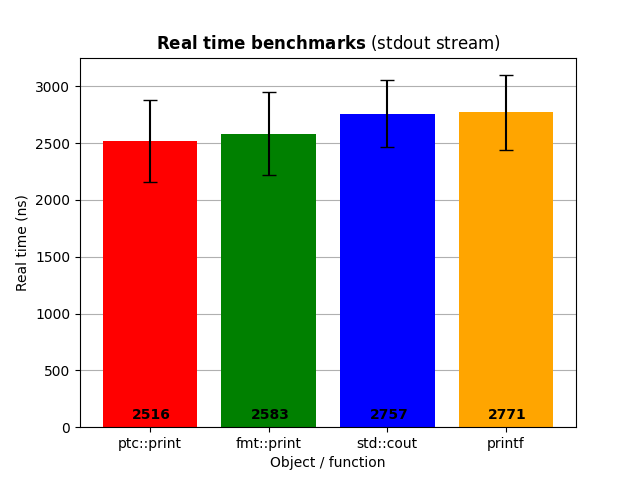
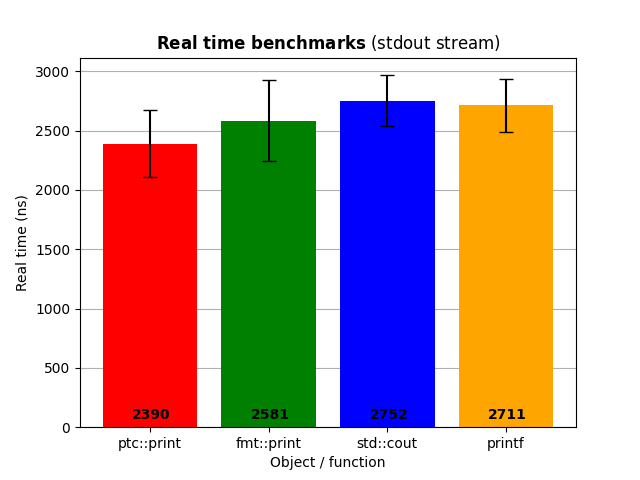
Added performance studies using performance options enabled.

diff --git a/include/ptc/print.hpp b/include/ptc/print.hpp
@@ -59,13 +59,6 @@ namespace ptc
       */
      Print(): end( "\n" ), sep( " " ), flush( false ) {}
 
-     // Destructor
-     /**
-      * @brief Destructor of the Print class.
-      * 
-      */
-     ~Print(){}
-
      //====================================================
      //     Public setters
      //====================================================
@@ -86,7 +79,6 @@ namespace ptc
      // setSep
      /**
       * @brief Setter used to set the value of the "sep" variable. Templated type is required in order to allow also char variables.
-      * 
       * 
       * @tparam T The type of the expression inserted to set the value of "sep" variable.
       * @param end_val The inserted expression used to set the value of "sep" variable.
@@ -169,12 +161,9 @@ namespace ptc
        else
         {
          #ifdef PTC_ENABLE_PERFORMANCE_IMPROVEMENTS
-           performance_options( 1 );
-           print_backend( std::cout, std::forward<T>( first ), std::forward<Args>( args )... );
-           performance_options( 0 );
-         #else 
-          print_backend( std::cout, std::forward<T>( first ), std::forward<Args>( args )... );
+          performance_options();
          #endif
+         print_backend( std::cout, std::forward<T>( first ), std::forward<Args>( args )... );
         }
       }
 
@@ -327,25 +316,12 @@ namespace ptc
 
      // performance_options
      /**
-      * @brief Function used to set on / off the performance improvements to the operator () overload.
-      * 
-      * @param flag A flag which identifies if the performance should be enabled or disabled.
+      * @brief Function used to set on the performance improvements to the operator () overload.
+      *
       */
-     void performance_options( const unsigned short& flag ) const
+     inline void performance_options() const
       {
-       switch( flag )
-        {
-         case( 1 ):
-          {
-           std::ios_base::sync_with_stdio( false );
-           break;
-          }
-         case( 0 ):
-          {
-           std::ios_base::sync_with_stdio( true );
-           break;
-          }
-        }
+       std::ios_base::sync_with_stdio( false );
       }
 
      //====================================================

diff --git a/studies/benchmarking/analysis.py b/studies/benchmarking/analysis.py
@@ -141,7 +141,7 @@ def plotter( data, time_type ):
     plt.bar( names.keys(), mean, yerr = std, color = colors, capsize = 5 )
 
     # Adding mean value inside each chart
-    for i in range( 0, 4, 1 ):
+    for i in range( counter ):
         ax.text( -0.15 + i , 70, round( mean[ i ] ), color = "black", fontweight = "bold" )
         
     # Plot settings
@@ -158,10 +158,16 @@ def plotter( data, time_type ):
     if args.save == "no":
         plt.show()
     elif args.save == "yes":
+        if args.macro == "yes":
+            suffix = "_macro"
+        elif args.macro == "no":
+            suffix = ""
+        else:
+            raise RuntimeError( cl( "Inserted --macro option \"{}\" is not supported!".format( args.macro ), "red" ) )
         path = "../../img/benchmarks/{}".format( time_type )
         if not os.path.exists( path ):
             os.makedirs( path )
-        plt.savefig( "../../img/benchmarks/{}/{}".format( time_type, feature_name.replace( " ", "_" ) ) )
+        plt.savefig( "../../img/benchmarks/{}/{}{}".format( time_type, feature_name.replace( " ", "_" ), suffix ) )
     else:
         raise RuntimeError( cl( "Inserted --save option \"{}\" is not supported!".format( args.save ), "red" ) )
 
@@ -179,6 +185,7 @@ if __name__ == "__main__":
     parser.add_argument( "--tests", default = "on", help = "Enable/disable tests (yes / no)." )
     parser.add_argument( "--data", default = "data/benchmarking.json", help = "The input dataset." )
     parser.add_argument( "--save", default = "no", help = "Save the produced plots or not (yes / no)." )
+    parser.add_argument( "--macro", default = "no", help = "Preprocessor macro usage (yes / no)." )
     args = parser.parse_args()
     
     # Main commands

diff --git a/studies/benchmarking/benchmarking.cpp b/studies/benchmarking/benchmarking.cpp
@@ -2,6 +2,7 @@
 //     Headers
 //====================================================
 
+
 // My headers
 #include "../../include/ptc/print.hpp"
 
@@ -159,9 +160,9 @@ static void fmt_print_file( bm::State& state )
 
 // stdout
 BENCHMARK( ptc_print_stdout );
-//BENCHMARK( fmt_print_stdout ) ;
+BENCHMARK( fmt_print_stdout ) ;
 //BENCHMARK( std_cout_stdout ) ;
-//BENCHMARK( printf_stdout );
+BENCHMARK( printf_stdout );
 
 // file writing
 //BENCHMARK( ptc_print_file );

diff --git a/README.md b/README.md
@@ -22,9 +22,12 @@
   - [Printing with ANSI escape sequences](#printing-with-ansi-escape-sequences)
   - [Printing non-standard types](#printing-non-standard-types)
 - [Install and use](#install-and-use)
+  - [Install](#insall)
+  - [Performance improvements](#performance-improvements)
 - [Tests](#tests)
 - [Comparison with other libraries](#comparison-with-other-libraries)
   - [Benchmarking](#benchmarking)
+  - [Benchmarking with performance improvements](#benchmarking-with-performance-improvements)
   - [Advantages](#advantages)
 - [Todo](#todo)
 - [Credits](#credits)
@@ -232,6 +235,8 @@ Empty for the moment.
 
 ## Install and use
 
+### Install
+
 Steps:
 
 1) Download one of the repository releases.
@@ -253,12 +258,19 @@ Prerequisites are minimal and are automatically installed with the `install.sh` 
 #include <ptc/print.hpp>
 ```
 
-5) Compile without any extra flag and run:
+### Performance improvements
 
-```bash
-g++ -std=c++17 program.cpp
-./a.out
+To consistently increase performance improvements, in case you don't plan to use both C++ and C output stream objects together (like `std::cout` and `printf` in the same program) you can define the macro:
+
+```C++
+#define PTC_ENABLE_PERFORMANCE_IMPROVEMENTS
 ```
+
+at the beginning of your program. In this way, as you can see from [benchmarking studies](#benchmarking), execution time will be strongly increased in case you are printing with the default `std::cout` stream. Read [here](https://stackoverflow.com/questions/31162367/significance-of-ios-basesync-with-stdiofalse-cin-tienull) for more information about the benefit of this choice.
+
+> **NOTE**: the usage of `PTC_ENABLE_PERFORMANCE_IMPROVEMENTS` macro will propagate not only to `ptc::print`, but also to `std::cout` in general, since it is directly used inside `ptc::print`.
+
+This operation preserves the library quality, however some memory false-positive errors may occur when running Valgrind *memcheck* tool; they are due to the [`std::ios_base::sync_with_stdio`](https://en.cppreference.com/w/cpp/io/ios_base/sync_with_stdio) function usage inside a generic class. This false-positive has been hidden into a Valgrind [suppression file](https://github.com/JustWhit3/ptc-print/tree/main/tests/valgrind_suppressions.supp).
 
 ## Tests
 
@@ -303,6 +315,12 @@ To check thread safety through *Helgrind*:
 ./profiling.sh helgrind ./bin/system_tests
 ```
 
+Tests using the `PTC_ENABLE_PERFORMANCE_IMPROVEMENTS` macro are automatically performed launching barely the `all_tests.sh` script, or alternatively specifying:
+
+```bash
+./all_tests.sh macro
+```
+
 ## Comparison with other libraries
 
 To install extra libraries used for comparison you can use the [`install_deps.sh`]((https://github.com/JustWhit3/ptc-print/blob/main/studies/install_deps.sh)) script.
@@ -339,7 +357,27 @@ Other suggestions are more than welcome.
 
 <img src="https://github.com/JustWhit3/ptc-print/blob/main/img/benchmarks/cpu_time/stdout_stream.png">
 
-For the moment `ptc::print` is the fastest for what regard real time benchmarks. For CPU time benchmarks it is slightly below `fmt::print`.
+For the moment `ptc::print` is the fastest for what regard real and CPU time benchmarks both.
+
+### Benchmarking with performance improvements
+
+Extra studies are performed using consistent improvements in the execution time, thanks to the `PTC_ENABLE_PERFORMANCE_IMPROVEMENTS` macro usage (see [here](#install-and-use) for more information). Using this macro definition will consistently speed-up the `ptc::print` object, as you can see from the following plots.
+
+To run these benchmarks you can do:
+
+```bash
+./run.sh macro
+```
+
+**Real time** benchmark results with macro usage:
+
+<img src="https://github.com/JustWhit3/ptc-print/blob/main/img/benchmarks/real_time/stdout_stream_macro.png">
+
+**CPU time** benchmark results with macro usage:
+
+<img src="https://github.com/JustWhit3/ptc-print/blob/main/img/benchmarks/cpu_time/stdout_stream_macro.png">
+
+`std::cout` is omitted since some of the performance improvements are directly applied also to it.
 
 ### Advantages
 
@@ -357,7 +395,7 @@ ptc::print( "I am", "very similar to Python", 123 );
 fmt::print( "{} {} {}\n", "I am", "very similar to Python", 123 );
 ```
 
-- Faster than all the other printing objects with benchmarks close even to the `fmt::print` function. See [Benchmarking](#benchmarking) section.
+- Faster than all the other printing objects. In case of `PTC_ENABLE_PERFORMANCE_IMPROVEMENTS` macro usage the library increase even more its speed with respect to the others. See [Benchmarking](#benchmarking) section.
 
 - Possibility to change *end* and *separator* characters, like in Python:
 
@@ -374,8 +412,6 @@ Python `print`:
 ```Python
 print( "I am", "Python", 123, sep = "*", end = "" );
 ```
-
-Work in progress...
 
 ## Todo
 
